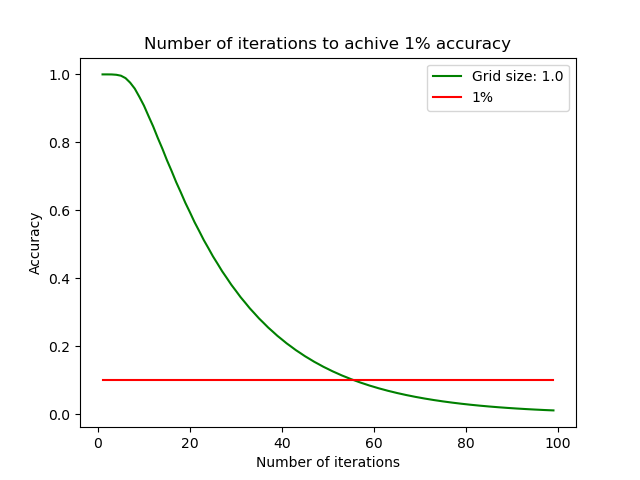
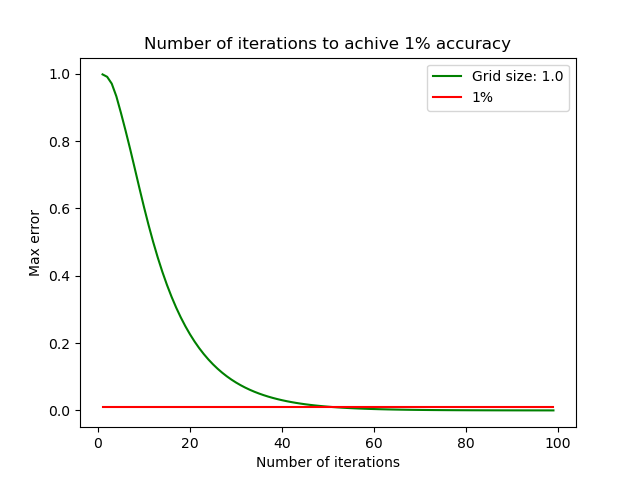
4.2

diff --git a/Project 4/elec_template-ab.py b/Project 4/elec_template-ab.py
@@ -6,13 +6,13 @@ from scipy.ndimage import gaussian_filter1d
 L = 10
 
 # The grid is n+1 points along x and y, including boundary points 0 and n
-n = 20
+n = 10
 
 # The grid spacing is L/n
 
 # The number of iterations
 nsteps = 10
-nsteps_list = range(1,500)
+nsteps_list = range(1,100)
 error_max_array = []        # should have the same size as nsteps_list
 v_exact = 10
 
@@ -33,8 +33,8 @@ for i in v:
 for i in range(1,n):
     v[0,i] = 10
     v[n,i] = 10
-    v[i,0] = 5
-    v[i,n] = 5
+    v[i,0] = 10
+    v[i,n] = 10
 
 #fig = plt.figure()
 #ax = fig.add_subplot(111)
@@ -42,7 +42,7 @@ for i in range(1,n):
 #fig.colorbar(im)
 
 # checker=1: no checkboard, checker=2: checkerboard (note: n should be even)
-checker = 2
+checker = 1
 
 # perform one step of relaxation
 def relax(n, v, checker):
@@ -56,7 +56,7 @@ def relax(n, v, checker):
                     
                     error = abs(v_exact - v[x,y])
                     error_array.append(error)
-        #error_max_array.append(max(error_array))
+        error_max_array.append(max(error_array))
 
         # Copy back the new values to v
         # Note that you can directly store in v instead of vnew with Gauss-Seidel or checkerboard
@@ -100,16 +100,16 @@ def E4_1a():
     for step in nsteps_list:
         update(step)
     
-    new = error_max_array[:len(error_max_array)//2]
+    new = error_max_array[:len(error_max_array)]
     print(len(new))
     newsmooth = gaussian_filter1d(new, sigma=0.9)
 
     plt.figure(1)
     plt.title("Number of iterations to achive 1% accuracy")
     plt.xlabel("Number of iterations")
-    plt.ylabel("Accuracy")
+    plt.ylabel("Max error")
     plt.plot(nsteps_list, newsmooth, "g", label="Grid size: "+ str(L/n))
-    plt.plot(nsteps_list, [0.1]*len(nsteps_list), 'r', label="1%")
+    plt.plot(nsteps_list, [0.01]*len(nsteps_list), 'r', label="1%")
     plt.legend()
     plt.show()
 
